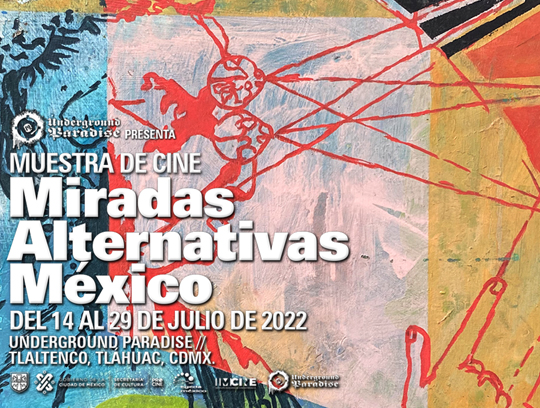
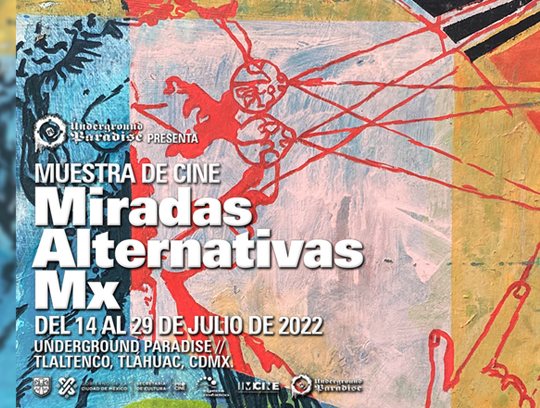
segundo bases

diff --git a/index.html b/index.html
@@ -81,6 +81,7 @@
                         <nav class="navbar navbar-nav">
                             <div class="side-nav-menu">
                                 <a class="nav-link home active anim-text-white" href="#home ">Home</a>
+								<a class="nav-link scroll anim-text-white" href="#bases-sec">bases MAMX</a>
                                 <a class="nav-link scroll anim-text-white" href="#services-sec">Sobre UP</a>
                                 <a class="nav-link scroll anim-text-white" href="#portfolio-sec">CINEMA</a>
                                 <a class="nav-link scroll anim-text-white" href="#testimonial-sec">ESPACIO</a>
@@ -155,8 +156,8 @@
         <div class="row align-items-center">
             <div class="col-12 col-lg-6">
                 <div class="heading-area">
-                  <h4 class="heading wow slideInLeft">Miradas Alternativas México</h4>
-					<p class="text">Muestra de cine Miradas Alternativas México convoca a realizadores nacionales y extranjeros a inscribir sus películas, cortos, medios y largometrajes de cualquier año de producción, a la muestra que tendrá lugar del 14 al 29 de junio de 2022, que se llevará a cabo de manera presencial en Cinema Underground Paradise. </p>
+                  <h4 class="heading wow slideInLeft">Miradas Alternativas Mx</h4>
+					<p class="text">Muestra de cine Miradas Alternativas Mx&nbsp; convoca a realizadores nacionales y extranjeros a inscribir sus películas, cortos, medios y largometrajes de cualquier año de producción, a la muestra que tendrá lugar del 14 al 29 de Julio de 2022, que se llevará a cabo de manera presencial en Cinema Underground Paradise. </p>
 					<p class="text">Es interés de la muestra promover el cine mexicano y latinoamericano, especialmente
 aquel que tiene que ver con propuestas contemporáneas que aborden la diversidad
 cultural e identitaria de la sociedad mexicanos. Se aceptarán piezas realizadas bajo
@@ -169,7 +170,7 @@ una condición común. </p>
 					<p class="text">Los trabajos serán presentados en su idioma original, priorizando la exposición de
 lenguas originarias, y con subtítulos en español incrustados en el video de ser
 necesarios. </p>
-                </div>
+              </div>
             </div>
             <div class="col-12 col-lg-6">
                 <div class="image-holder wow slideInRight">
@@ -189,6 +190,7 @@ segmentos de la pieza inscrita para la elaboración de materiales electrónicos 
 difusión.</p>
 <p class="text">Dada la naturaleza sin ánimo de lucro de la Muestra de cine Miradas Alternativas México,
 bajo ningún caso se pagará por los derechos de exhibición (screening fees).</p>
+<p class="text">Para la presentación de las obras, se deberá llenar el formulario al final de la presente convocatoria, con todos los archivos solicitados a continuación:</p>
 
 <p class="text">1. Trailer de la película.</p>
 <p class="text">2. Sinopsis español.</p>
@@ -197,19 +199,22 @@ bajo ningún caso se pagará por los derechos de exhibición (screening fees).</
 <p class="text">5. Biografía con semblanza del director en español.</p>
 <p class="text">6. Dos stills de la película.</p>
 <p class="text">7. Firmar carta de derechos de exhibición</p>
-
-<p class="text">Los resultados de la presente convocatoria serán publicados en el sitio oficial del
-festival el 01 de junio de 2022.</p>
-<p class="text">La inscripción de películas al la Muestra implica la aceptación de las bases de esta
+<p class="text">Se recibirán obras desde el momento de la publicación de la convocatoria y hasta las 23:59 horas (hora central de México) del 05 de Julio de 2022.</p>
+<p class="text">Los resultados de la presente convocatoria serán publicados en el sitio y redes sociales de Cinema Underground Paradise el 08 de Julio de 2022.</p>
+<p class="text">La inscripción de películas a la Muestra implica la aceptación de las bases de esta
 convocatoria y la renuncia a cualquier tipo de reclamación o acción legal contra
 Cinema Underground Paradise y sus representantes.</p>
 <p class="text">Cualquier asunto no especificado en la presente convocatoria será resuelto de manera
 directa por los organizadores.</p>
 										<p class="text">Carta de derechos de exhibición 
-						  <a href="upmx.org">link</a></p>
+						  <a href="upmx.org">descargar</a></p>
 									
 				  <p class="text">Para mayor información, escribir a 
-						  <a href="mailto:upartisticresidency@gmail.com">upartisticresidency@gmail.com</a> </p></li></div>
+						  <a href="mailto:upartisticresidency@gmail.com">upartisticresidency@gmail.com</a> </p>
+										 <p class="text"> 
+						  <a href="upmx.org">APLICA AQUI</a></p>
+									</li></div>
+				 
 
 
                     
@@ -333,7 +338,7 @@ directa por los organizadores.</p>
                             <div class="col-12 col-md-6 col-lg-8 text-center text-md-left mb-3 mb-lg-0">
                                 <h4 class="work-heading">Tiempos Modernos.(1936) Dir. Charles Chaplin. </h4>
                                 <p class="text">Domingo 26 de Junio de 2022. 8 PM.
-								Una clásica del cine mudo, musicalizada en vivo y proyectada al aire libre en colaboración con @procine_oficial.</p>
+								Una película clásica del cine mudo, musicalizada en vivo y proyectada al aire libre en colaboración con @procine_oficial.</p>
                             </div>
                             <div class="col-12 col-md-6 col-lg-4 d-flex align-items-center justify-content-center justify-content-md-end">
                                 <a href="https://www.facebook.com/undergroundparadisemx" target="_blank" class="work-btn btn-main rounded-pill">Reserva</a>
